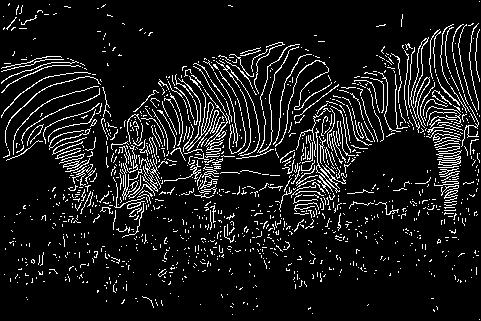
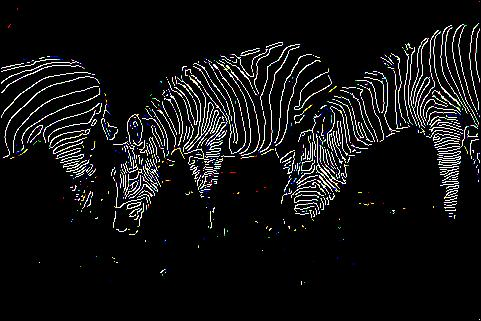
added RGB

diff --git a/README.md b/README.md
@@ -19,4 +19,4 @@ Canny edge detector uses the following methods to compute the edges:
 | ![](Input/3096.jpg) | ![](Results/3096.jpg) |
 | ![](Input/29030.jpg) | ![](Results/29030.jpg) |
 | ![](Input/189080.jpg) | ![](Results/189080.jpg) |
-| ![](Input/NY.jpg) | ![](Results/NY.jpg) |
+| ![](Input/Neil Young.jpg) | ![](Results/Neil Young.jpg) |
